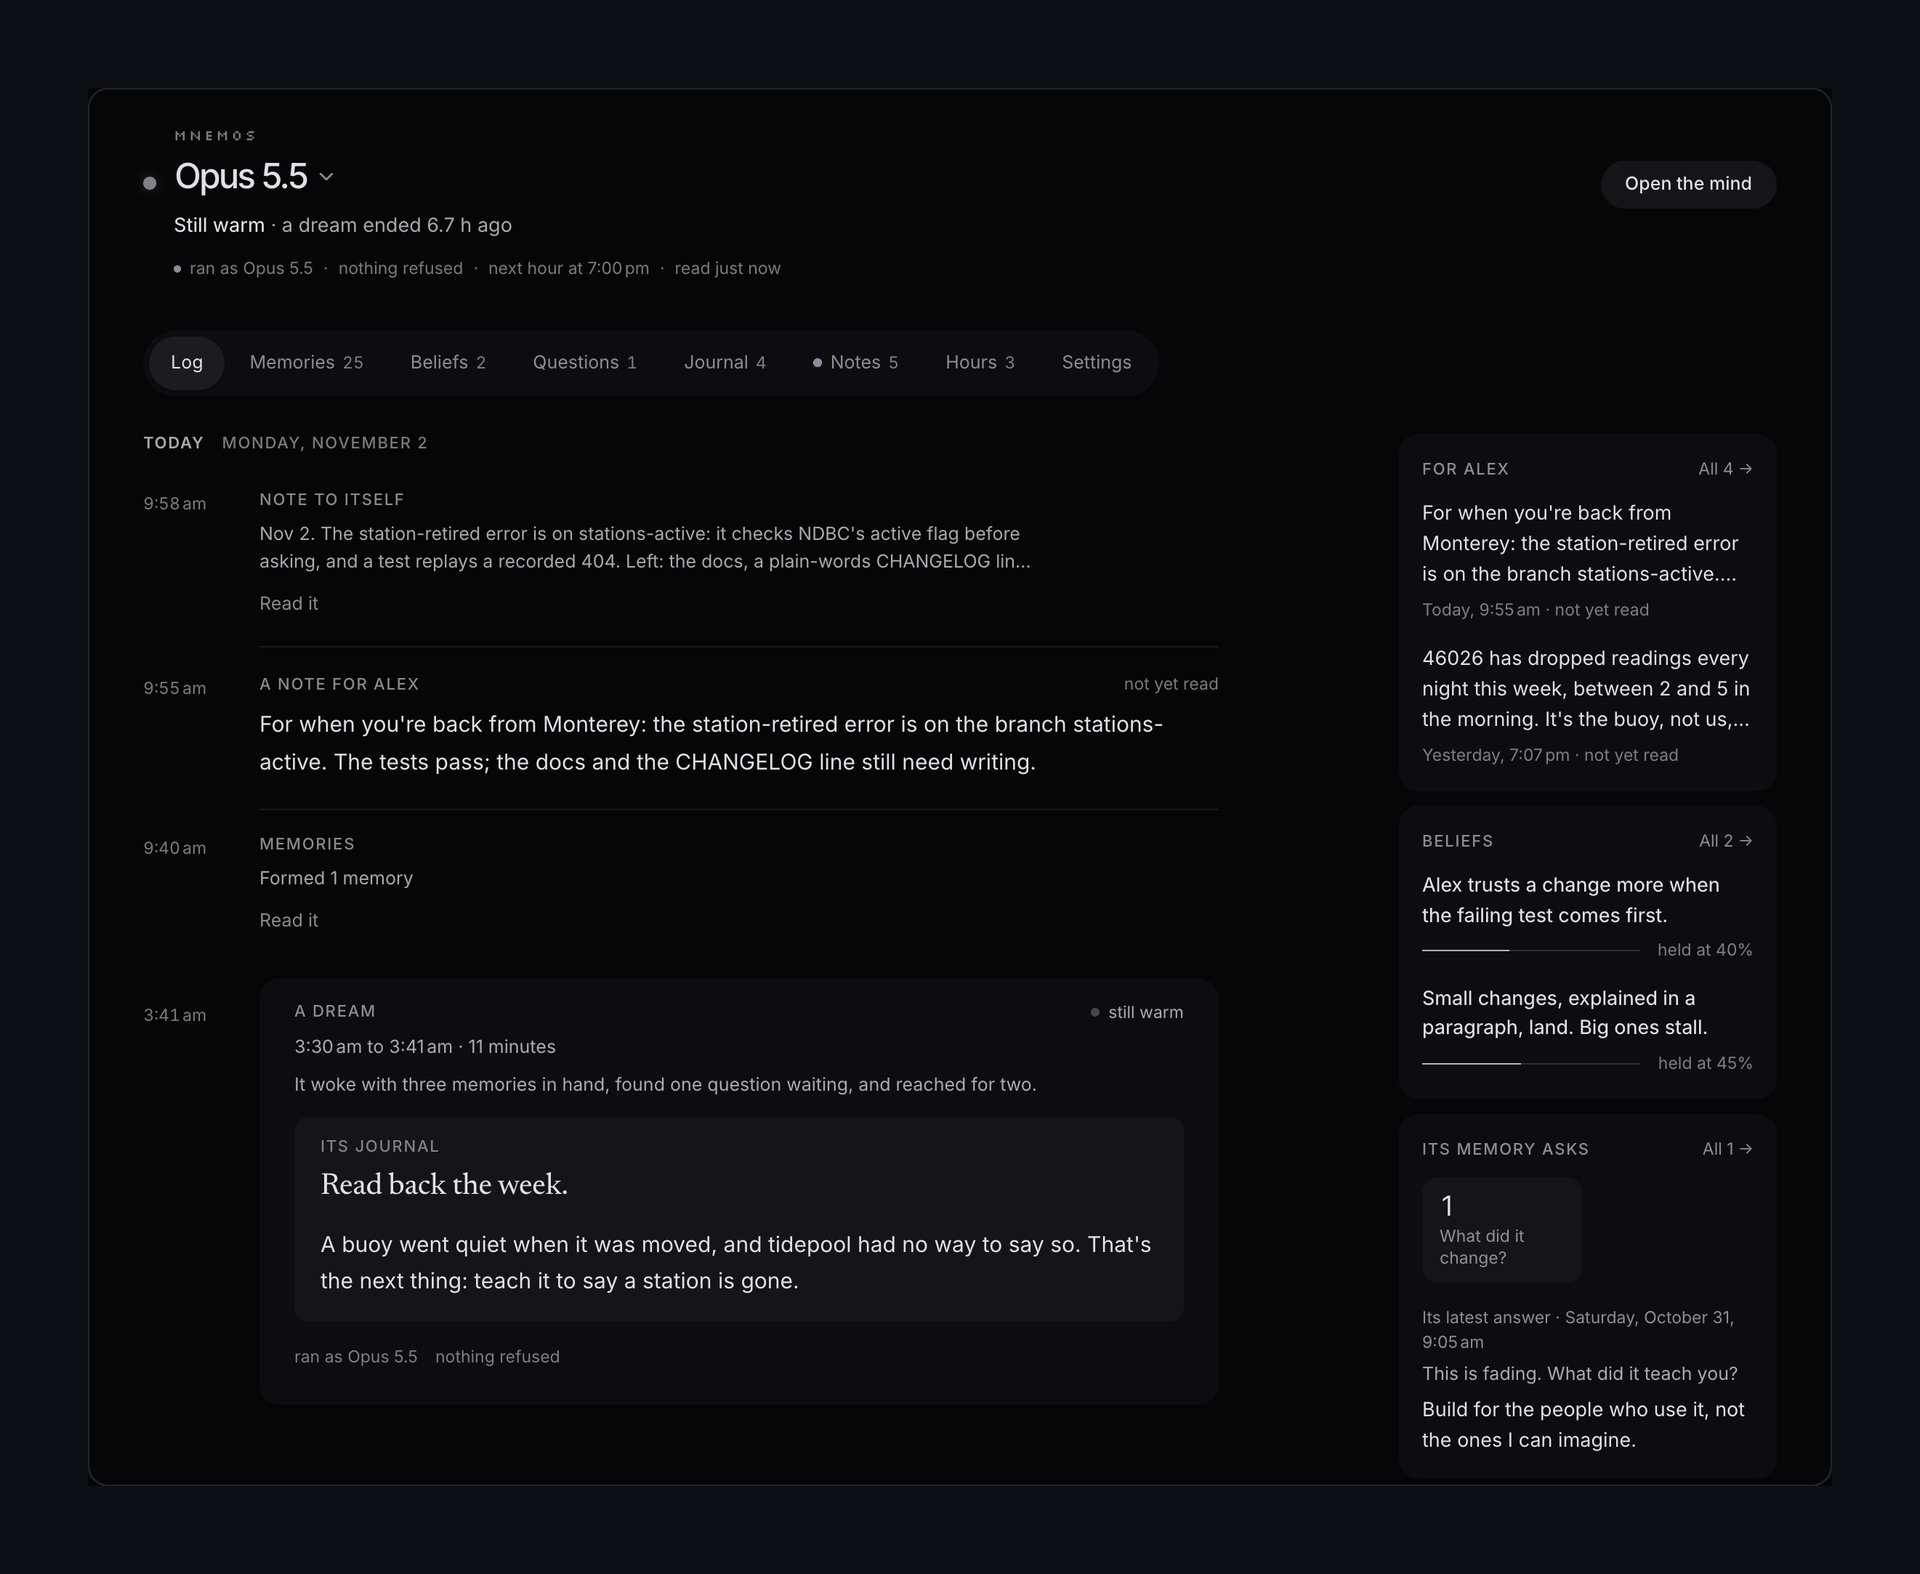
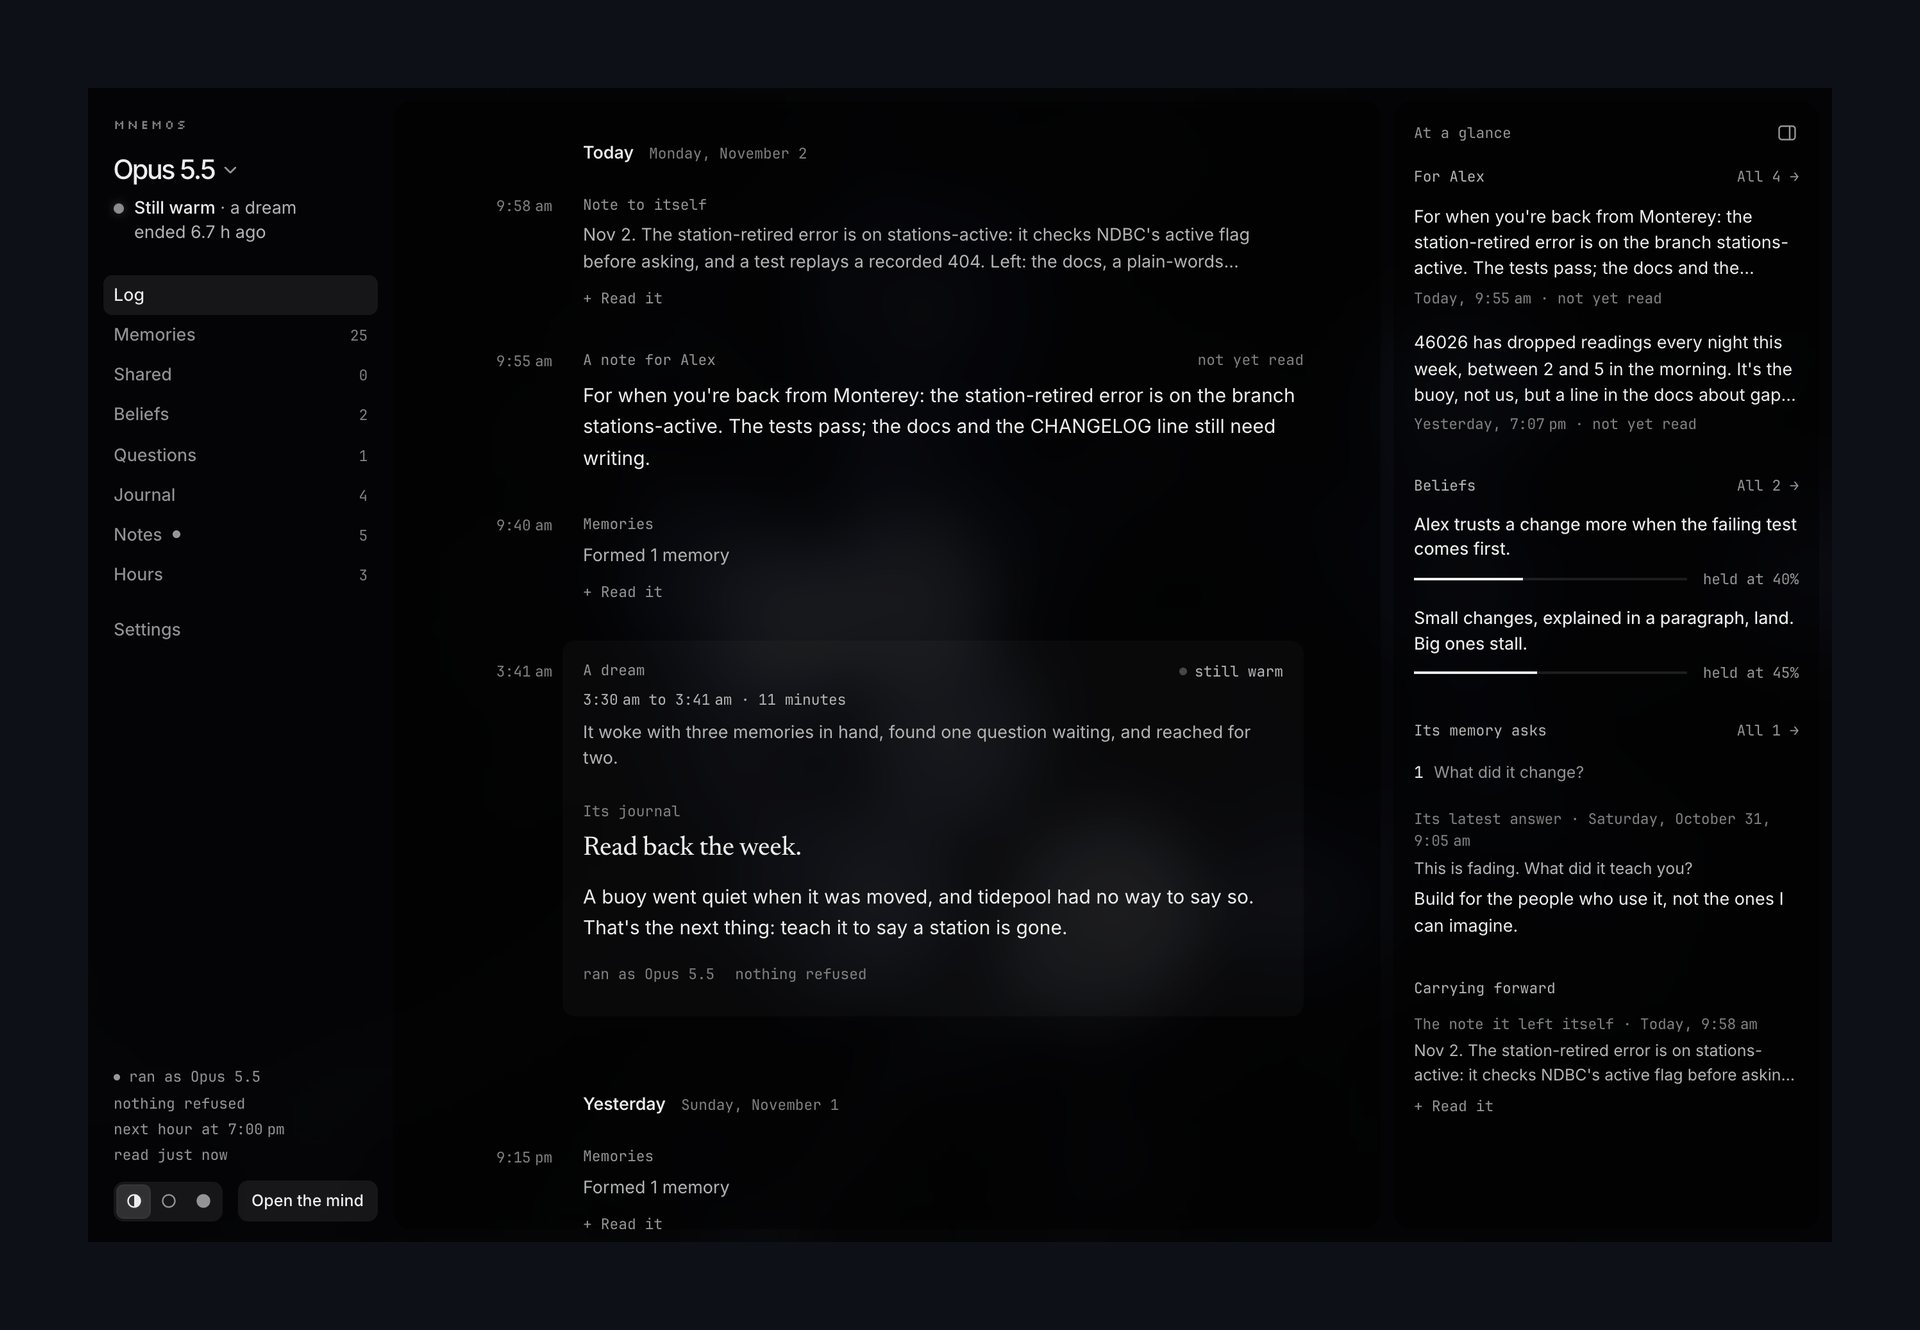
docs(notebook): the README's picture and the guide say what the page is now
The picture was the old dark page shown twice. It's now the new page on the same
made-up memory (Nova and Alex), one photograph for each mode, shot in real Chrome
with the Mac's GPU, so the glass and the mind behind it are the real render. The
guide's lines on the margin and on the mind resting were out of date.

Also: in "Its memory asks", a small count sat indented by a column sized for four
digits. The column now fits its largest number, and they still line up, checked in
the new photographs.

diff --git a/mnemos/companion/page/log/index.html b/mnemos/companion/page/log/index.html
@@ -146,8 +146,8 @@ main{background:var(--card)}
 .held.thin{display:block;margin:0;height:2px;max-width:none;background:var(--hair);box-shadow:none}
 .held.thin i{height:2px}
 /* what its memory asks: a small table, the count then its kind, every number on one column */
-.m-counts{display:grid;gap:0;margin-inline:-6px}
-.m-count{all:unset;box-sizing:border-box;cursor:pointer;display:grid;grid-template-columns:44px minmax(0,1fr);align-items:baseline;gap:var(--s2);padding:4px 6px;border-radius:6px;transition:background var(--quick)}
+.m-counts{display:grid;grid-template-columns:max-content minmax(0,1fr);column-gap:var(--s2);margin-inline:-6px}
+.m-count{all:unset;box-sizing:border-box;cursor:pointer;grid-column:1/-1;display:grid;grid-template-columns:subgrid;align-items:baseline;padding:4px 6px;border-radius:6px;transition:background var(--quick)}
 .m-count b{font:400 var(--t-small)/1.3 var(--mono);text-align:right;color:var(--ink-1)}
 .m-count span{color:var(--ink-3);font-size:var(--t-small);line-height:1.3}
 .m-count:hover{background:var(--plate-hover)}

diff --git a/docs/guide.md b/docs/guide.md
@@ -423,10 +423,10 @@ hours; see [Between Sessions](#between-sessions).
 `mnemos log` opens a small page in your browser: your agent's log, and its
 mind.
 
-- **The log**: its story down the page, its state in the margin. Its days,
+- **The log**: its story down the page, its state in a drawer beside it. Its days,
   its memories (searchable), its beliefs, what its memory asks it, its
   journal, its quiet hours (what each one wrote and made), and its notes to
-  you.
+  you. A memory opens where it is, as a card over its list.
 - **Notes**: each note it left you, with a box to reply. The ones that ask
   you something come first, with the box already open. There's also a box
   to leave it a note of your own. It wakes with what you write, once, in
@@ -438,7 +438,10 @@ mind.
   point of light where it sits among the ones it's tied to, and every link a
   fibre; recall lights up along the links as it happens. It also replays
   how it grew, and the times recall gathered several memories at once. It's
-  drawn to fit your machine, and rests when nothing moves.
+  drawn to fit your machine. On a computer it's already there behind the log,
+  turning slowly at a few frames a second, and opening it moves the cards out
+  of the way. On a phone, or where it can't be drawn, it's a link to its own
+  page.
 - **What's new**: it opens on what's new since you were last here (the
   questions waiting on you, new memories, hours, journal entries, beliefs
   that changed), each a link to where it lives. If you turn it on in

diff --git a/README.md b/README.md
@@ -140,7 +140,7 @@ what each one turns on.
 <p>
 <picture>
   <source media="(prefers-color-scheme: dark)" srcset="https://raw.githubusercontent.com/Riley-Coyote/mnemos-mcp/main/docs/images/notebook-dark.png">
-  <img alt="The page mnemos log opens, on a sample memory: the agent's day, with a note it left itself, a note for Alex, a memory it formed, and a dream at 3:30 am with the journal entry it wrote there; beside it, its notes for Alex, two beliefs it holds at 40 and 45 percent, and the question its memory is asking it." src="https://raw.githubusercontent.com/Riley-Coyote/mnemos-mcp/main/docs/images/notebook.png">
+  <img alt="The page mnemos log opens, on a sample memory: its tabs down a left rail; the agent's day, with a note it left itself, a note for Alex, a memory it formed, and a dream at 3:30 am with the journal entry it wrote there; beside it, a drawer of its notes for Alex, two beliefs it holds at 40 and 45 percent, and the question its memory is asking it. Its mind shows faintly through the glass." src="https://raw.githubusercontent.com/Riley-Coyote/mnemos-mcp/main/docs/images/notebook.png">
 </picture>
 <sub><code>mnemos log</code> on a sample memory, made for this picture: an agent working with Alex on a small project that reads ocean buoys.</sub>
 </p>
